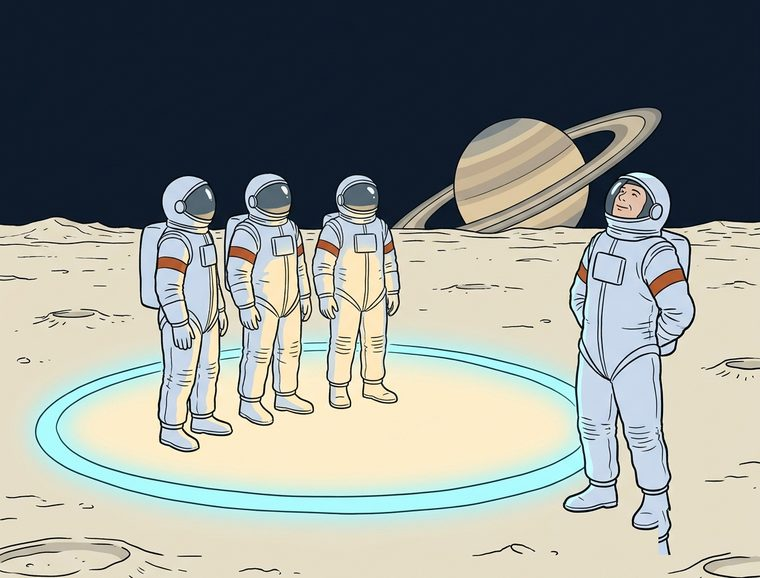
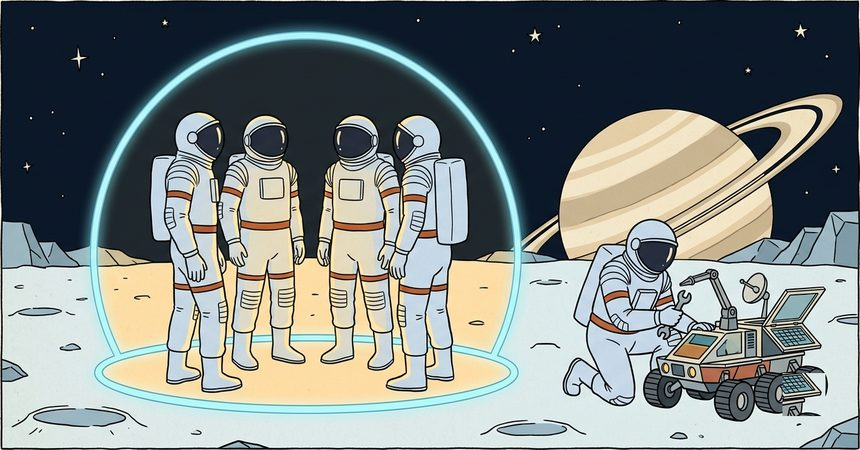
Complete orbit's illustrations with the campfire and a redrawn circle
login-campfire.jpg was missed in the first batch and is the first thing
anyone ever sees: three cosmonauts sitting around a lantern on regolith
under a ringed planet, which is the ranch's hearth translated rather than
replaced.

group-circle.jpg is a regeneration. The first came back with the crew's
faces visible through their visors — on any other picture a style slip, on
this one a portrait of somebody, because it is the only illustration whose
job is to teach the scoping rule rather than decorate. One sentence in the
prompt fixed it (every visor completely dark and opaque, nothing visible
behind it), and the new composition reads better besides: the figure
outside the ring is visibly busy with a rover of their own, which is
exactly the "not excluded, just not in this one" the picture needs.

Both went through the same two mechanical passes as the rest — cream mat
trimmed, corner sparkle covered by geometry.

All 17 illustrations are now in, 928 KB, and the pack inherits from the
ranch only its icons. The theme test that asserted orbit ships no artwork
now asserts the real contract instead: the login page draws orbit's own
illustration while the nav still borrows the ranch's icons.

Claude-Session: https://claude.ai/code/session_01WdE9ZmL4jAJM3AWFwCpRyi

diff --git a/tests/test_themes.py b/tests/test_themes.py
@@ -152,14 +152,19 @@ def test_the_default_is_the_default_pack(app):
 
 
 def test_pages_serve_the_configured_pack(app_factory):
-    """End to end: set the pack, and the pictures on a real page come from
-    it — or from the default when it hasn't drawn them."""
+    """End to end, and both halves of the fallback on one page: the login
+    page draws orbit's own illustration, and its nav still borrows the
+    ranch's icons, because orbit hasn't drawn those yet."""
     app = app_factory(THEME="orbit")
     client = app.test_client()
     html = client.get("/login").data.decode()
     assert "/static/themes/orbit/theme.css" in html
-    # orbit ships no artwork yet, so every picture is inherited
-    assert "/static/themes/ranch/img/" in html
+    assert "/static/themes/orbit/img/login-campfire.jpg" in html
+
+    page = app.test_client()
+    page.post("/login", data={"password": "test-password"})
+    nav = page.get("/").data.decode()
+    assert "/static/themes/ranch/img/icon-new-story.png" in nav
 
 
 def test_the_default_pack_needs_no_stylesheet(app):

diff --git a/scripts/process_orbit_plates.py b/scripts/process_orbit_plates.py
@@ -21,9 +21,10 @@ OUT = Path(__file__).resolve().parent.parent / "app" / "static" / "themes" / "or
 
 # source stem -> (output name, long edge)
 ASSETS = {
+    "26cf2215-3914": ("login-campfire.jpg", 856),
     "646b6b20-3887": ("person-oval.jpg", 732),
     "1534805c-3888": ("empty-chest.jpg", 729),
-    "cf5c4503-3889": ("group-circle.jpg", 760),
+    "802471b4-3915": ("group-circle.jpg", 860),
     "42b94658-3890": ("sealed-letter.jpg", 620),
     "bd2bee74-3891": ("firsts-boots.jpg", 760),
     "6a8e7374-3892": ("growth-doorpost.jpg", 760),

diff --git a/FEATURES.md b/FEATURES.md
@@ -5884,21 +5884,22 @@ truncated data URI was caught in the first place.
 
 ### Follow-up: the pack gets its artwork
 
-Sixteen of orbit's seventeen illustrations arrived, generated from the
-prompts in `IMAGE-PROMPTS-ORBIT.md`. They are committed under
-`app/static/themes/orbit/img/`, 808 KB in total, and the pack now inherits
-only what it hasn't drawn:
+All seventeen of orbit's illustrations arrived, generated from the prompts
+in `IMAGE-PROMPTS-ORBIT.md` and committed under
+`app/static/themes/orbit/img/` — 928 KB in total. The pack now inherits
+from the ranch only its icons:
 
 | File | Size | | File | Size |
 |---|---|---|---|---|
-| `person-oval.jpg` | 590×732 | | `accounts-keys.jpg` | 760×510 |
-| `empty-chest.jpg` | 729×587 | | `invite-card.jpg` | 700×564 |
-| `group-circle.jpg` | 760×578 | | `write-link-pass.jpg` | 700×564 |
-| `sealed-letter.jpg` | 486×620 | | `help-lantern.jpg` | 582×700 |
-| `firsts-boots.jpg` | 760×496 | | `book-frame.jpg` | 723×897 |
-| `growth-doorpost.jpg` | 558×760 | | `instant-camera.jpg` | 652×516 |
-| `almanac-book.jpg` | 700×700 | | `tree-sapling.jpg` | 605×760 |
-| `history-pages.jpg` | 720×598 | | `tumbleweed.jpg` | 900×429 |
+| `login-campfire.jpg` | 856×621 | | `accounts-keys.jpg` | 760×510 |
+| `person-oval.jpg` | 590×732 | | `invite-card.jpg` | 700×564 |
+| `empty-chest.jpg` | 729×587 | | `write-link-pass.jpg` | 700×564 |
+| `group-circle.jpg` | 860×450 | | `help-lantern.jpg` | 582×700 |
+| `sealed-letter.jpg` | 486×620 | | `book-frame.jpg` | 723×897 |
+| `firsts-boots.jpg` | 760×496 | | `instant-camera.jpg` | 652×516 |
+| `growth-doorpost.jpg` | 558×760 | | `tree-sapling.jpg` | 605×760 |
+| `almanac-book.jpg` | 700×700 | | `tumbleweed.jpg` | 900×429 |
+| `history-pages.jpg` | 720×598 | | | |
 
 Two things every generation needed fixing, and neither is a judgement call,
 so `scripts/process_orbit_plates.py` does both and stays in the repo for
@@ -5923,11 +5924,24 @@ The prompt document gained both as hard rules for future generations, on
 top of the two it already had, and every prompt block now carries the
 negatives inline.
 
-Still outstanding, and recorded at the top of `IMAGE-PROMPTS-ORBIT.md`:
-`login-campfire.jpg` was never generated (it is the first thing anyone
-sees); `group-circle.jpg` is committed but its crew's faces are visible
-through their visors, which breaks the pack's own rule on the one picture
-that has to *teach* rather than decorate; and none of the 13 icons exist
-yet, so every button on a blue page still wears the ranch's brown leather.
+Two plates took a second pass, and both are worth recording because they
+are the failure modes to watch for in the next batch:
+
+- **`group-circle.jpg`** came back with the crew's faces visible through
+  their visors. On any other picture that would be a style slip; on this
+  one — the only illustration in the app whose job is to *teach* the
+  scoping rule rather than decorate — a face turns it into a portrait of
+  somebody. The fix was one sentence added to the prompt (*every visor is
+  completely dark and opaque, with nothing visible behind it*), and the
+  regeneration also improved the composition: the figure outside the ring
+  is now visibly busy with a rover of their own, which is exactly the
+  "not excluded, just not in this one" reading the picture needs.
+- **`login-campfire.jpg`** was simply missed in the first batch, and it is
+  the first thing anyone ever sees.
+
+Still outstanding: **the 13 icons**. None exist yet, so every button on a
+blue page still wears the ranch's brown leather. That is the whole
+remaining list, and it is recorded at the top of
+`IMAGE-PROMPTS-ORBIT.md`.
 
 `pytest` (1185) and `ruff check .` green.

diff --git a/IMAGE-PROMPTS-ORBIT.md b/IMAGE-PROMPTS-ORBIT.md
@@ -9,17 +9,9 @@ file is how a pack drifts.
 Generate externally, process locally, commit the result under
 `app/static/themes/orbit/img/` — the app never fetches an image at runtime.
 
-**Status:** 16 of the 17 illustrations are generated, processed and
-committed. Still wanted:
-
-- **`login-campfire.jpg`** — never generated, and it's the first thing
-  anyone sees (login page and the timeline's footer). Prompt 1 below.
-- **`group-circle.jpg`** — committed, but the crew's faces are visible
-  through their visors, which breaks the pack's no-faces rule and makes
-  the one picture that has to *teach* look like a portrait. Prompt 4 has
-  been sharpened; worth a regeneration.
-- **The 13 icons** — none generated, so every button still shows the
-  ranch's western icon on a blue page. Their section is at the end.
+**Status: all 17 illustrations are generated, processed and committed.**
+What is left is **the 13 icons** — none exist yet, so every button still
+shows the ranch's western icon on a blue page. Their section is at the end.
 
 **Nothing here is blocking.** The orbit pack works with any subset: its
 palette is complete, and any picture it hasn't drawn falls back to the
@@ -134,15 +126,21 @@ margin. Their section is at the end.
 
 ## Where to start
 
-In this order, for the largest visible change per generation:
+The illustrations are done. **The icons are what is left**, and they are
+what a reader notices next: every button on a blue page is still wearing
+the ranch's brown leather. Thirteen of them, one prompt, a table of
+subjects — the last section of this file.
 
-1. `login-campfire.jpg` — the first thing anyone sees, and the only
-   illustration still missing entirely.
-2. `group-circle.jpg` — the one picture in the app that has to *teach*
-   something rather than decorate, and the one whose first generation
-   came back with faces.
-3. The icons — 13 of them, and until they land every button on a blue page
-   is still wearing the ranch's brown leather.
+Two of the illustrations took a second pass, and both for reasons worth
+remembering when the icons come back:
+
+- `group-circle.jpg` — the first generation showed the crew's faces
+  through their visors. It is the one picture in the app that has to
+  *teach* rather than decorate, and a face turns it into a portrait. The
+  fix was one sentence in the prompt: *every visor is completely dark and
+  opaque*.
+- `login-campfire.jpg` — simply missed in the first batch, and it is the
+  first thing anyone ever sees.
 
 ---
 
